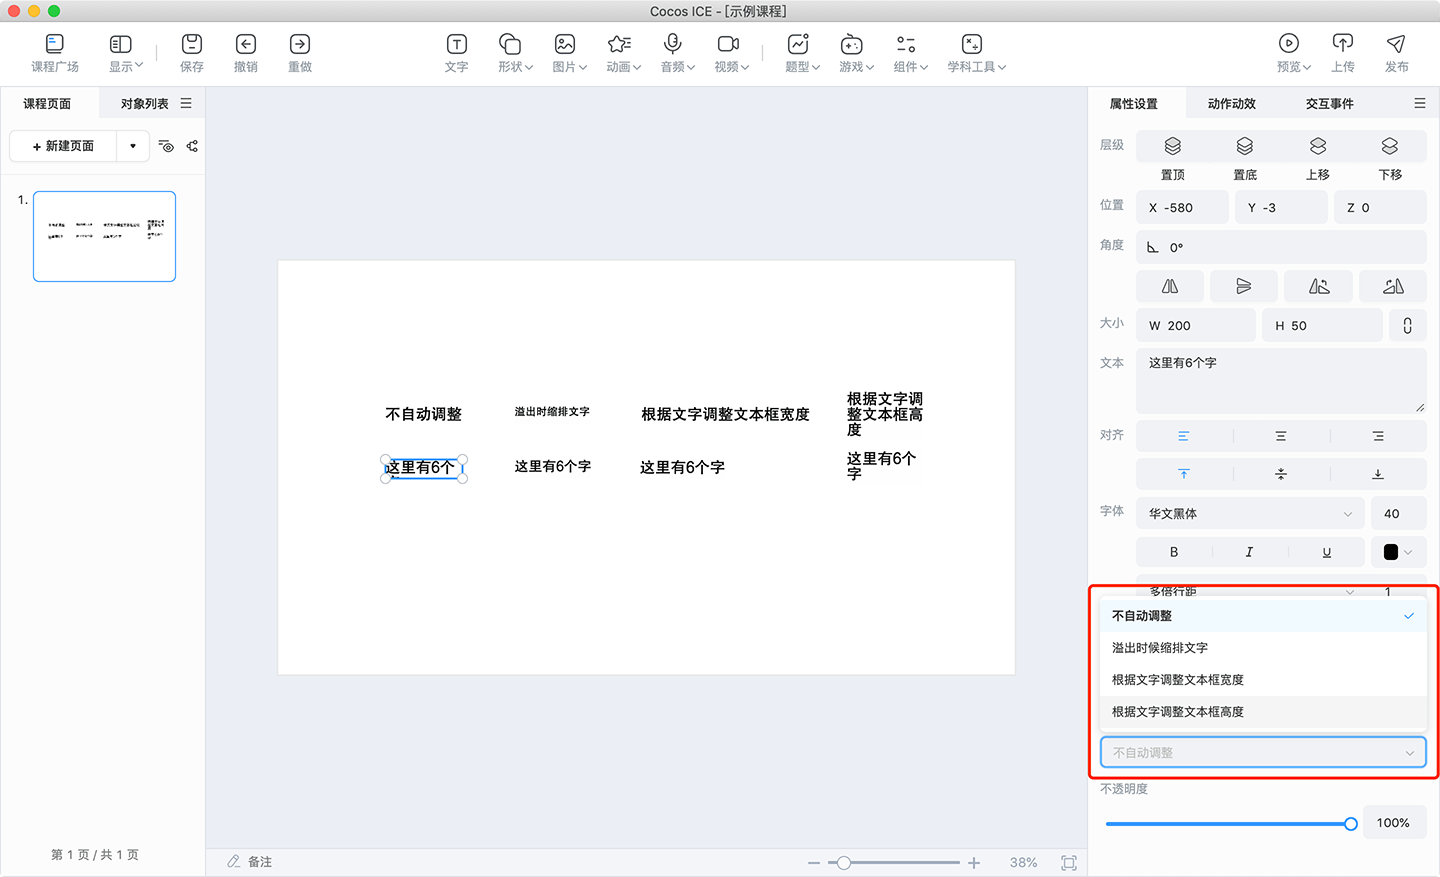
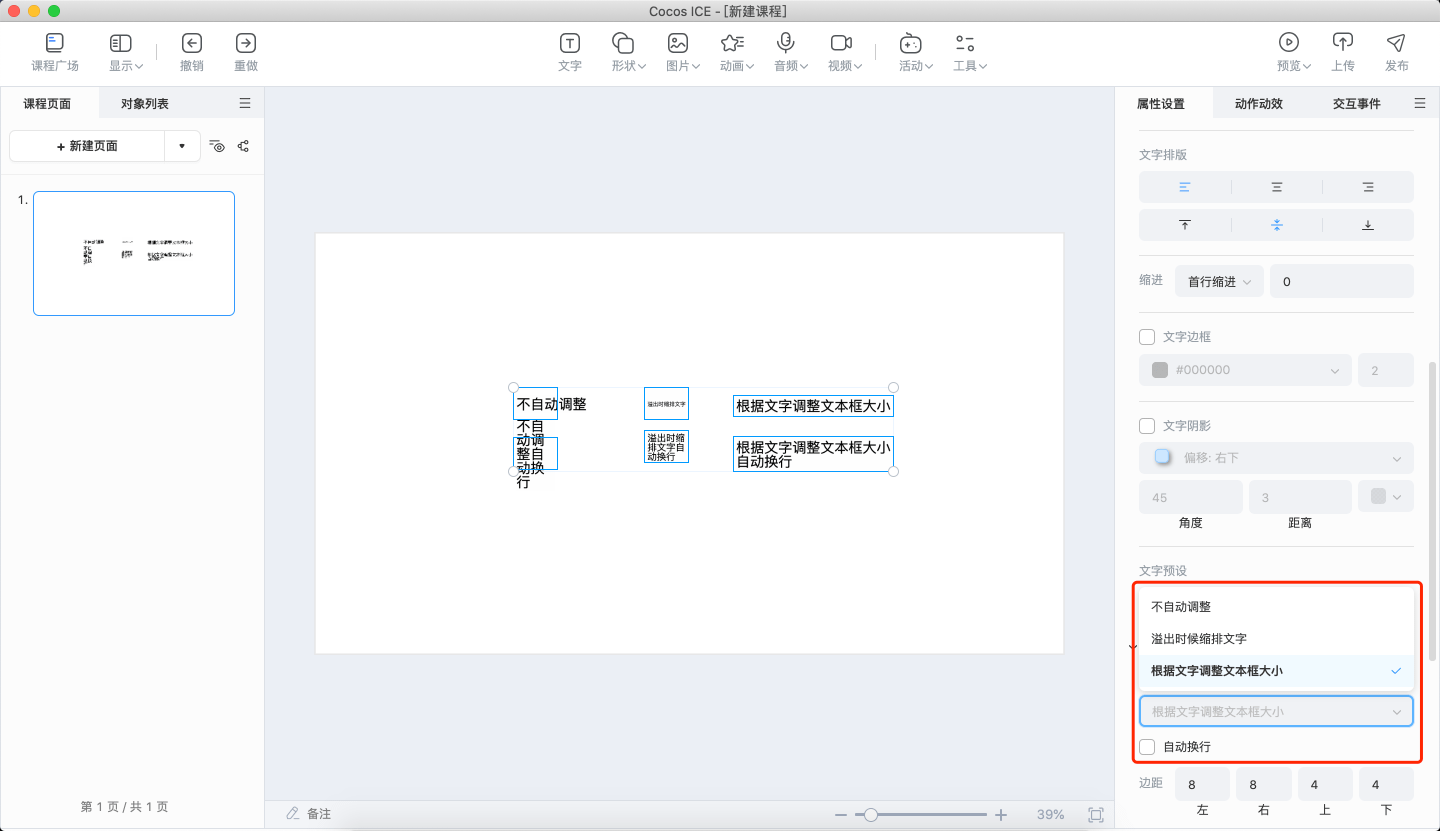
更新v1.6 发版说明、基础对象-文字功能

diff --git a/zh/tools/object/word/index.md b/zh/tools/object/word/index.md
@@ -1,25 +1,53 @@
 # 文字
 
-选中文字对象，可以在右侧属性面板编辑 **文字内容**、**字体**、**字号**、**行距**、**颜色**、**特殊样式**、**对齐方式**、**文本类型**、**文本框类型** 等。
+选中文字对象，可以在右侧属性面板编辑 **文本内容**、**字体**、**字号**、**行距**、**颜色**、**特殊样式**、**对齐方式**、**文字预设**、**文本框类型**、**形状** 等。
 
 ![文字属性](../../../img/Curriculum.png)
 
-## 编辑字体
+## 编辑文本
 
-为了保证企业使用字体版权的安全性，目前 ICE 仅支持研发配置好可选字体分发给老师，老师通过下拉框就可以选择使用，具体可查看研发手册的 [文字配置文档](../../../developer/configure/object/word/index.md)。
+ICE 支持编辑文本内容、字体、字号、加粗、斜体、下划线、字体颜色、行距、文字排版（对齐方式）、首行缩进、文字边框、文字阴影、文字预设，整体操作与常用的文本编辑相似。
+
+### 编辑字体
+
+ICE 支持研发配置好自定义字体再把编辑器分发给老师，也支持老师直接选择电脑自带的系统字体，但字体版权需要企业内部注意管控，老师通过下拉框就可以选择使用，自定义字体的配置方法具体可查看研发手册的 [文字配置文档](../../../developer/configure/object/word/index.md)。
 
 ![修改字体](img/font.png)
 
-## 编辑文本框类型
+### 编辑字号
 
-ICE 支持用户选择使用以下 4 种文本框类型：
+字号支持点击后从下拉框选择，也支持点击右侧上下按钮增减，也支持使用键盘上下键增减。字号的下拉框支持企业配置常用字号，配置方法具体可查看研发手册的 [文字配置文档](../../../developer/configure/object/word/index.md)。
 
-- **不自动调整**：无论用户输入的文字量多少，文本框的大小不变，默认为该选项。
+![修改字号](img/font_number.png)
 
-- **溢出时缩排文字**：文本框大小不变，文字字号会缩小至刚好在文本框内能显示。
+### 编辑文字样式
 
-- **根据文字调整文本框宽度**：文本框高度不变，宽度会根据文字长度增加。
+v1.6 支持给文字设置边框、阴影，创造更多丰富的课件效果。
 
-- **不自动调整**：文本框宽度不变，文字会自动换行，高度会根据文字长度增加。
+![修改字号](img/font_3.png)
+
+### 编辑文字预设
+
+支持通过文字预设，快速修改文字的整体样式，ICE 内置标题、副标题、正文几个选项，后续版本将开放给研发配置自定义。
+
+![修改文字预设](img/font_preset.png)
+
+## 编辑文本框
+
+### 编辑文本框类型
+
+ICE 支持用户选择使用以下 3 种文本框类型：
+
+- **不自动调整**：无论用户输入的文字量多少，文本框的大小不变，默认为该选项。如勾选自动换行，文本会根据宽度换行，但文本框大小仍保持不变。
+
+- **溢出时缩排文字**：文本框大小不变，文字字号会缩小至刚好在文本框内能显示。如勾选自动换行，文本会根据宽度换行。
+
+- **根据文字调整文本框大小**：文本框高度不变，宽度会根据文字长度增加。如勾选自动换行，文本框宽度保持不变，高度会根据文字内容增加。
 
 ![文本框类型](img/font_area_type.png)
+
+### 编辑文本框样式
+
+v1.6 支持设置文本框的边框、填充、阴影。填充支持颜色或图片填充。
+
+![文本框样式](img/font_2.png)

diff --git a/zh/version-info/index.md b/zh/version-info/index.md
@@ -4,6 +4,31 @@
 
 Cocos ICE 每次版本升级时会自动对您的项目进行升级，建议每次升级前对项目进行备份，以防万一遇到版本兼容问题。
 
+## Cocos ICE 1.6
+
+### v1.6.0（2022 年 3 月 31 日）
+
+#### 新功能
+
+- 音频、视频支持 **裁剪**。
+- 图片裁剪支持简单形状 **遮罩**。
+- 丰富 **文本样式**，支持编辑文本框样式、文字边框、阴影、缩进等。
+- 丰富 **图片样式**，支持边框、阴影等。
+- 形状支持双击插入文本、填充图片、阴影。
+- 支持通过动作动效面板 **设置 Spine 切换动作**。
+- 支持 **组合对象**，并支持给组合设置动效、事件等。
+- 新增 **播放音频** 事件，该事情支持录音。
+
+#### 优化
+
+- 优化动效、事件规则，提升 PPT 导入动效的效果。
+- 优化 PPT 导入的边框、阴影、图片遮罩、音视频裁剪；无字体时增加提示。
+- 上传或插入本地动画时，可以先选择动画类型再上传。
+
+#### 新增资源
+
+- 新增 3 个内置动效。
+
 ## Cocos ICE 1.5
 
 ### v1.5.0（2022 年 2 月 11 日）

diff --git a/zh/index.md b/zh/index.md
@@ -1,4 +1,4 @@
-# Cocos ICE 1.5 用户手册
+# Cocos ICE 1.6 用户手册
 
 欢迎使用 Cocos ICE（Cocos Interactive Courseware Editor 互动课件编辑器）用户手册！本手册包括详尽的使用说明、面向不同职能用户的工作流程和能够快速上手的新手教程，能够帮您快速掌握如何使用 Cocos ICE 制作出形式多样、互动性强、画面精美的课件。
 
